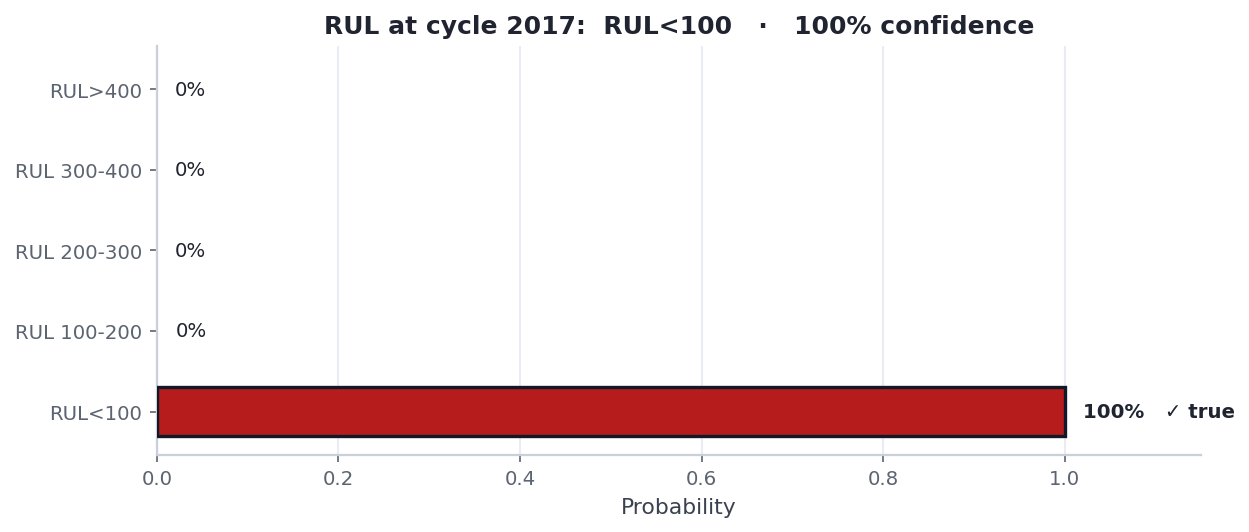
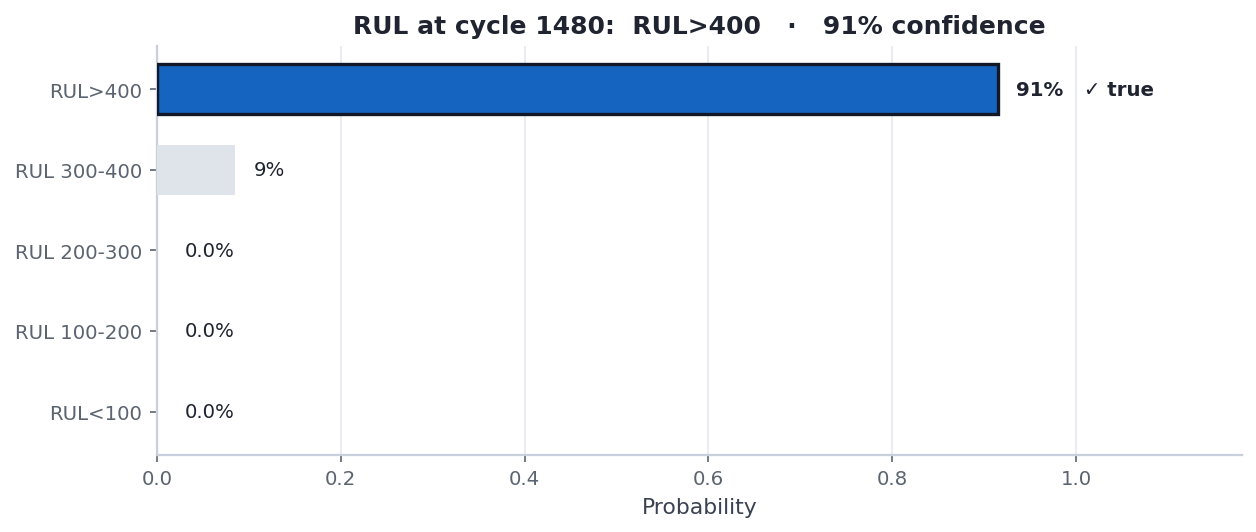
fix(rul): show real probability values on query bar chart
Use 1 decimal place when a probability would round to 0% or 100%
as an integer (e.g. 99.7% now shows as '99.7%' not '100%',
and 0.2% shows as '0.2%' not '0%'). Very small non-zero values
(<1%) always get one decimal. Confidence in the title follows
the same logic. Also nudge the text anchor so tiny bars are not
hidden behind the y-axis.

Update README screenshot to show cycle-1480 prediction with
clearly visible 91%/9% split on HUST_4-1.

diff --git a/webapp/data_processing/rul_runner.py b/webapp/data_processing/rul_runner.py
@@ -221,16 +221,22 @@ def _plot_query(out_dir: Path, stem: str, query: dict) -> dict[str, str]:
                     color=(CLASS_COLORS[ci] if is_pred else _GRAY_BAR),
                     edgecolor=("#111827" if is_true else "none"),
                     linewidth=(1.6 if is_true else 0.0))
-            label = f"{probs[ci]:.0%}" + ("   ✓ true" if is_true else "")
-            ax.text(min(probs[ci] + 0.02, 1.02), pos, label, va="center", ha="left",
+            pct = probs[ci] * 100
+            # Use 1 decimal for values that would round to 0% or 100% as integers
+            fmt = f"{pct:.1f}%" if (0 < pct < 1 or 99 < pct < 100) else f"{pct:.0f}%"
+            label = fmt + ("   ✓ true" if is_true else "")
+            x_label = max(probs[ci], 0.01) + 0.02  # always offset slightly from axis
+            ax.text(min(x_label, 1.02), pos, label, va="center", ha="left",
                     fontsize=9.5, color="#1f2430",
                     fontweight=("bold" if is_pred else "normal"))
         ax.set_yticks(range(N_CLASSES))
         ax.set_yticklabels([CLASS_NAMES[ci] for ci in order])
-        ax.set_xlim(0, 1.15)
+        ax.set_xlim(0, 1.18)
         ax.set_xlabel("Probability")
+        conf_pct = query['confidence'] * 100
+        conf_fmt = f"{conf_pct:.1f}%" if (99 < conf_pct < 100 or 0 < conf_pct < 1) else f"{conf_pct:.0f}%"
         ax.set_title(f"RUL at cycle {query['end_cycle']}:  {query['pred_name']}"
-                     f"   ·   {query['confidence']:.0%} confidence")
+                     f"   ·   {conf_fmt} confidence")
         fig.tight_layout()
         return _save_vectors(fig, out_dir / f"{stem}_rul_query.png")
 